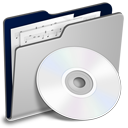
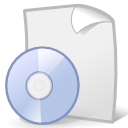
ENH: Afegim botó per obrir DICOMDIR desde la pestanya de DICOMDIR de la Queryscreen i posem icones més adequades per "obrir DICOMDIR" i "Crear DICOMDIR"

diff --git a/starviewer/src/interface/qapplicationmainwindow.cpp b/starviewer/src/interface/qapplicationmainwindow.cpp
@@ -124,9 +124,8 @@ void QApplicationMainWindow::createActions()
 
     m_openDICOMDIRAction = new QAction( this );
     m_openDICOMDIRAction->setText(tr("Open DICOMDIR...") );
-//     m_openDICOMDIRAction->setShortcut( tr("Ctrl+ ") );
     m_openDICOMDIRAction->setStatusTip( tr("Open DICOMDIR from CD,DVD,Pendrive or HardDisk") );
-    m_openDICOMDIRAction->setIcon( QIcon(":/images/createDICOMDIR.png") );
+    m_openDICOMDIRAction->setIcon( QIcon(":/images/openDICOMDIR.png") );
     m_signalMapper->setMapping( m_openDICOMDIRAction , 8 );
     connect( m_openDICOMDIRAction , SIGNAL( triggered() ) , m_signalMapper , SLOT( map() ) );
 

diff --git a/starviewer/src/inputoutput/queryscreen.cpp b/starviewer/src/inputoutput/queryscreen.cpp
@@ -296,6 +296,9 @@ void QueryScreen::createConnections()
 
     //Connecta amb el signal que indica que ha finalitza el thread d'esborrar els estudis vells
     connect(&m_qdeleteOldStudiesThread, SIGNAL(finished()), SLOT(deleteOldStudiesThreadFinished()));
+
+    // connectem el botó per obrir DICOMDIR
+    connect( m_openDICOMDIRToolButton, SIGNAL( clicked() ), SLOT( openDicomdir() ) );
 }
 
 void QueryScreen::setAdvancedSearchVisible(bool visible)
